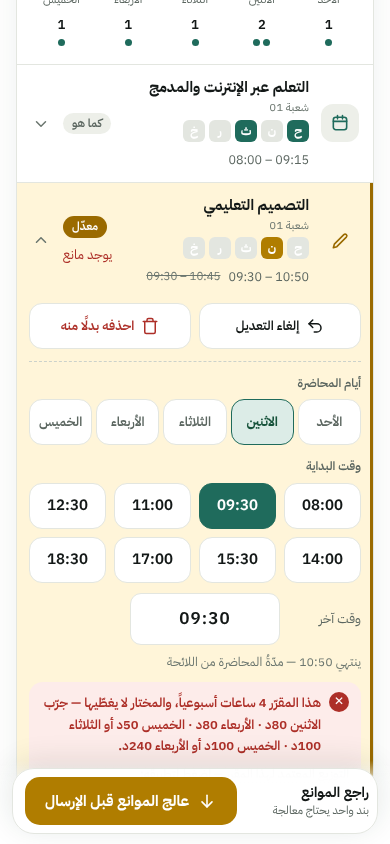
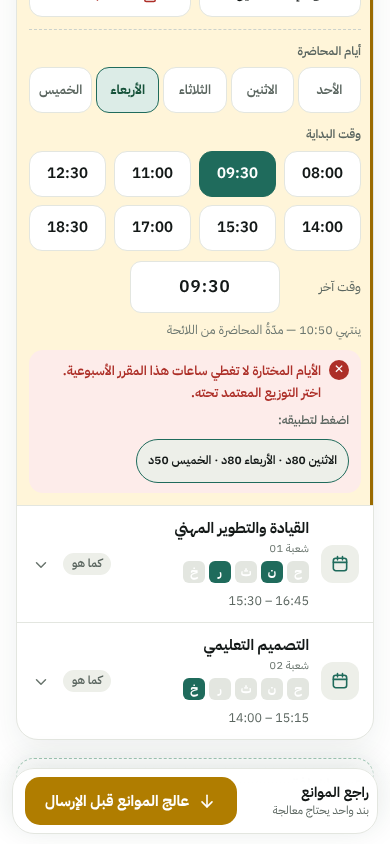
كرت الأستاذ: ثلاثة عيوب وجدتها المراجعة الأخيرة
- شاشة «وصل طلبك» كانت تختفي بعد لحظة: حفظ الإرسال يُطلق حدثاً في البث، وقراءةٌ بدأت أثناء الإرسال كانت ترسم الجدول فوقها ومعه رمز التوقيع. صار البث والقراءة يتوقفان أثناء الإرسال وبعده
- المانع «لا يغطّيها — جرّب ...» كان يعِد بتوزيعاتٍ لا تُختار من الصفحة فيُردّ الأستاذ ثانيةً. صار يدلّه على الزرّ الذي يمرّ، أو أن يُبقي موعده حين لا يوجد ما يُختار
- رمز التوقيع لا يتكرّر في شاشة «وصل طلبك»، ورابط التحقق هدف لمسٍ بارتفاع 44

Claude-Session: https://claude.ai/code/session_01AdKRVbcQ9dAGCBRHnaHCyL

diff --git a/server.ts b/server.ts
@@ -20393,7 +20393,7 @@ label.time input:focus,select:focus,textarea:focus,label.sign input:focus{outlin
 .cal-line{margin:10px 2px 14px;text-align:center}.cal-line p{margin:6px 6px 0;font-size:12px;color:var(--muted);line-height:1.7}
 .cal-btn{display:inline-flex;align-items:center;justify-content:center;gap:8px;min-height:44px;padding:9px 16px;border:1px solid var(--accent);border-radius:13px;background:var(--soft);color:var(--accent);font-weight:700;font-size:14px;text-decoration:none}.cal-btn .sk-gi{inline-size:18px;block-size:18px;flex:none}
 .cal-line.compact{margin:0 0 12px;text-align:start}.cal-line.compact p{margin:4px 2px 0}
-.verify-line{margin:14px 2px 0;font-size:13px;color:var(--muted);text-align:center}.verify-line a{color:var(--accent);font-weight:700}
+.verify-line{margin:14px 2px 0;font-size:13px;color:var(--muted);text-align:center}.verify-line a{display:inline-flex;align-items:center;min-height:44px;padding:0 8px;color:var(--accent);font-weight:700}
 .shape-lead{margin:0;font-size:12px;color:var(--muted)}.alts.shapes button{border-color:var(--accent);background:var(--soft);color:var(--ink);font-weight:600}
 .alts-ro span{padding:7px 11px;border-radius:999px;border:1px dashed var(--line);background:var(--soft,#f4f6f5);color:var(--ink,#1d2b24);font-size:12px}
 .days button,.starts button,.alts button,.reply button,.acts .act{min-height:44px}
@@ -20509,6 +20509,12 @@ var FRIENDLY=[
  [/^خارج المعتاد تاريخياً/,"هذا الوقت غير معتاد لهذا المقرر — يُقبل مع ذكر السبب."],
  [/^يتقاطع هذا الوقت مع مقرّرٍ يشترك فيه طلبتك/,"طلبتُك مسجّلون في مقررٍ آخر في هذا الوقت — اختر وقتاً آخر."]
 ];
+/* «هذا المقرّر 4 ساعات… جرّب الاثنين 80د · … أو الثلاثاء 100د…» صحيحةٌ للقسم، لكنها تَعِد الأستاذَ بتوزيعاتٍ
+   لا تُختار من هذه الصفحة (أطوالُ لقاءٍ يحدّدها القسم)، فيجرّبها فيُردّ ثانيةً. فتُقال له جملةٌ تدلّه على الزرّ
+   الذي يمرّ فعلاً، أو على أن يُبقي موعده حين لا يوجد ما يُختار من هنا. */
+function verdictText(it){var n=String(it&&it.note||"");
+ if(/لا يغطّيها/.test(n))return it.shapes&&it.shapes.length?"الأيام المختارة لا تغطي ساعات هذا المقرر الأسبوعية. اختر التوزيع المعتمد تحته.":"ساعات هذا المقرر تحتاج توزيعاً يحدّده القسم. أبقِ موعدك كما هو، أو اكتب للقسم ما تريده.";
+ return friendly(n)}
 function friendly(text){text=String(text||"");for(var k=0;k<FRIENDLY.length;k++){if(FRIENDLY[k][0].test(text))return FRIENDLY[k][1]}return text}
 function collegeNameOf(it){return it.action==="add"?(it.collegeName||(it.after&&it.after.collegeName)||""):((it.before&&it.before.collegeName)||"")}
 function manyColleges(){var seen={};state.forEach(function(it){var c=collegeNameOf(it);if(c)seen[c]=1});return Object.keys(seen).length>1}
@@ -20710,7 +20716,7 @@ function actionsHtml(it,i){
  return actBtn(i,"keep","undo","تراجع عن الحذف");
 }
 function editHtml(it,i){var h="";h+='<div class="edit"><span class="field-title">أيام المحاضرة</span><div class="days">';DAYS.forEach(function(d){h+='<button type="button" data-i="'+i+'" data-day="'+d[0]+'" aria-pressed="'+(it.days.indexOf(d[0])>=0)+'">'+d[1]+'</button>'});
-    h+='</div><span class="field-title">وقت البداية</span><div class="starts">'+startChoices(it.days).filter(function(t){return !it.blk||it.days.length!==1||mins(t)+it.blk<=20*60}).map(function(t){var own=it.start!==t&&ownClash(it,i,t);return '<button type="button" data-i="'+i+'" data-quick="'+t+'" aria-pressed="'+(it.start===t)+'"'+(own?' disabled title="عندك محاضرة في هذا الوقت" data-own-clash="1"':'')+'>'+t+'</button>'}).join("")+'</div><label class="time"><span>وقت آخر</span>'+SK.tf('data-i="'+i+'" data-start="1" aria-label="وقت آخر"',it.start)+'</label><p class="ends">'+(sameAsBefore(it)?"هذا هو موعدك الحالي نفسه — اختر يوماً أو وقتاً مختلفاً، أو اضغط «إلغاء التعديل».":it.days.length&&it.start?"ينتهي "+endOf(it.days,it.start,it.blk)+" — مدّةُ المحاضرة من اللائحة":"اختر اليوم ثم وقت البداية")+'</p><div class="verdict" data-i="'+i+'" data-tone="'+(it.tone||"")+'"><i aria-hidden="true">'+(it.tone==="ok"?"✓":it.tone==="bad"?"✕":it.tone==="warn"?"!":"…")+'</i><span>'+esc(friendly(it.note||""))+'</span>'+(it.shapes&&it.shapes.length?'<div class="shapes-box"><p class="shape-lead">التوزيع المعتمد لهذا المقرر — اضغط لتطبيقه:</p><div class="alts shapes">'+it.shapes.map(function(sh){return '<button type="button" data-i="'+i+'" data-shape="'+esc(sh.days.join(","))+'">'+esc(sh.label)+'</button>'}).join("")+'</div></div>':'')+(it.alts&&it.alts.length?'<div class="alts">'+it.alts.map(function(a){var ds=a.days&&a.days.length?a.days:[a.day];return '<button type="button" data-i="'+i+'" data-alt="'+esc(ds.join(",")+"|"+a.start)+'">'+fmtDays(ds)+" "+esc(a.start)+'</button>'}).join("")+'</div>':'')+'</div><textarea data-i="'+i+'" data-excuse="1" data-vi-field="ex-'+i+'" maxlength="'+${VOICE_INPUT_LIMIT}+'" data-show="'+(it.tone==="warn"?"1":"0")+'" placeholder="سبب الاستثناء — إلزامي">'+esc(it.excuse||"")+'</textarea>'+(it.tone==="warn"?VI.html("ex-"+i):"")+'</div>';return h}
+    h+='</div><span class="field-title">وقت البداية</span><div class="starts">'+startChoices(it.days).filter(function(t){return !it.blk||it.days.length!==1||mins(t)+it.blk<=20*60}).map(function(t){var own=it.start!==t&&ownClash(it,i,t);return '<button type="button" data-i="'+i+'" data-quick="'+t+'" aria-pressed="'+(it.start===t)+'"'+(own?' disabled title="عندك محاضرة في هذا الوقت" data-own-clash="1"':'')+'>'+t+'</button>'}).join("")+'</div><label class="time"><span>وقت آخر</span>'+SK.tf('data-i="'+i+'" data-start="1" aria-label="وقت آخر"',it.start)+'</label><p class="ends">'+(sameAsBefore(it)?"هذا هو موعدك الحالي نفسه — اختر يوماً أو وقتاً مختلفاً، أو اضغط «إلغاء التعديل».":it.days.length&&it.start?"ينتهي "+endOf(it.days,it.start,it.blk)+" — مدّةُ المحاضرة من اللائحة":"اختر اليوم ثم وقت البداية")+'</p><div class="verdict" data-i="'+i+'" data-tone="'+(it.tone||"")+'"><i aria-hidden="true">'+(it.tone==="ok"?"✓":it.tone==="bad"?"✕":it.tone==="warn"?"!":"…")+'</i><span>'+esc(verdictText(it))+'</span>'+(it.shapes&&it.shapes.length?'<div class="shapes-box"><p class="shape-lead">اضغط لتطبيقه:</p><div class="alts shapes">'+it.shapes.map(function(sh){return '<button type="button" data-i="'+i+'" data-shape="'+esc(sh.days.join(","))+'">'+esc(sh.label)+'</button>'}).join("")+'</div></div>':'')+(it.alts&&it.alts.length?'<div class="alts">'+it.alts.map(function(a){var ds=a.days&&a.days.length?a.days:[a.day];return '<button type="button" data-i="'+i+'" data-alt="'+esc(ds.join(",")+"|"+a.start)+'">'+fmtDays(ds)+" "+esc(a.start)+'</button>'}).join("")+'</div>':'')+'</div><textarea data-i="'+i+'" data-excuse="1" data-vi-field="ex-'+i+'" maxlength="'+${VOICE_INPUT_LIMIT}+'" data-show="'+(it.tone==="warn"?"1":"0")+'" placeholder="سبب الاستثناء — إلزامي">'+esc(it.excuse||"")+'</textarea>'+(it.tone==="warn"?VI.html("ex-"+i):"")+'</div>';return h}
 function bodyHtml(it,i,open){var h=decisionBox(it,i,open)+threadBox(it,i);
  if(open){if(it.negotiation==="proposed")h+='<p class="hint-pro">للرد على اقتراح القسم استخدم بطاقة «قرارك» في أعلى الصفحة. وتعديل الموعد من هنا يبدأ طلبًا جديدًا.</p>';h+='<div class="acts" role="group" aria-label="خيارات الموعد">'+actionsHtml(it,i)+'</div>';if(it.action==="change"||it.action==="add")h+=editHtml(it,i)}
  else if(!h)h='<p class="appt-ro">انتهت مدّة الطلبات — هذا الموعد للاطلاع.</p>';
@@ -20837,8 +20843,10 @@ function calendarHtml(compact){if(!data||!data.calendarFeed)return "";
   '<p>يتحدّث تلقائياً عند أي تثبيتٍ جديد من القسم، ولا يحمل إلا ما ثُبّت في جدولك الرسمي.</p></div>'}
 function anyFixed(){return state.some(function(it){return it.decision&&it.decision.state==="fixed"})||(data&&data.request&&data.request.status==="settled")}
 /* رمزُ التوقيع له مكانٌ يُطابَق فيه: يُعرض مع رابطٍ يفتح التحقّق جاهزاً بالرمز. */
-function verifyHtml(code){if(!code)return "";
- return '<p class="verify-line">رمز توقيعك <b class="code num">'+esc(code)+'</b> · <a href="/verify/'+encodeURIComponent(code)+'?t='+encodeURIComponent(TOKEN)+'">تحقّق من رمزك</a></p>'}
+function verifyHtml(code,linkOnly){if(!code)return "";
+ var link='<a href="/verify/'+encodeURIComponent(code)+'?t='+encodeURIComponent(TOKEN)+'">'+(linkOnly?'تحقّق من توقيعك لاحقاً':'تحقّق من رمزك')+'</a>';
+ /* في شاشة «وصل طلبك» الرمزُ مكتوبٌ فوقه، فلا يُكرَّر: الرابطُ وحده. */
+ return '<p class="verify-line">'+(linkOnly?link:'رمز توقيعك <b class="code num">'+esc(code)+'</b> · '+link)+'</p>'}
 /* المسودةُ تُحفظ في الجهاز نفسه: أستاذٌ أغلق الصفحة خطأً أو انقطع اتصاله
    يعود فيجد ما كتبه. ولا يُحفظ الرقمُ المدني أبداً. */
 var openCards={};
@@ -21004,26 +21012,33 @@ function submit(){
 }
 /* الإرسالُ نفسُه كما كان: الخادمُ يعيد الحكمَ ويتحقق من التوقيع، والصفحةُ تعرض ما يقوله. */
 function postSubmit(civil,done){
+ /* أثناء الإرسال لا تُقرأ الصفحة من جديد: حفظُ الإرسال نفسه يُطلق حدثاً في البثّ، وقراءتُه في منتصف الطريق
+    كانت تقول «وصل ردّ من القسم» عن إرسال الأستاذ نفسه، أو ترسم الجدولَ فوق شاشة «وصل طلبك». */
+ sendingNow=true;
  fetch("/api/public/request/"+encodeURIComponent(TOKEN),{method:"POST",
   headers:{"Content-Type":"application/json"},
   body:JSON.stringify({civil:civil,items:payloadItems()})})
  .then(function(r){return r.json().then(function(d){return{ok:r.ok,status:r.status,d:d}})})
  .then(function(x){
   if(!x.ok){
+   sendingNow=false;
    if(typeof x.d.itemIndex==="number"&&state[x.d.itemIndex]){var bad=state[x.d.itemIndex];if(bad.action!=="delete"&&bad.action!=="keep"){bad.tone="bad";bad.note=x.d.error||bad.note}closeSheet();focusItem(x.d.itemIndex,x.d.error||"تعذّر الإرسال");return}
    done(x.d.error||"تعذّر الإرسال",x.status);return}
   dirty=false;clearDraft();
+  /* شاشةُ «وصل طلبك» تبقى حتى يضغط «افتح جدولك»: حفظُ الإرسال نفسِه يُطلق حدثاً في البثّ،
+     وكانت إعادةُ القراءة التي يطلقها ترسم الجدولَ فوقها فتختفي بعد لحظة ومعها رمزُ التوقيع. */
+  liveOff=true;closeLive();
   var code=x.d.request&&x.d.request.signature&&x.d.request.signature.verifyCode||"";
   done();
   host.innerHTML='<div class="done"><div class="tick">'+gi("check")+'</div><h1>وصل طلبك إلى القسم</h1><div class="done-path">'+pathHtml(pendingList().length?2:1)+'</div>'+
    '<p class="sub">'+esc(countOf(x.d.changed,AR.edit,"بلا تعديلات"))+
    ' · يمكنك فتح الرابط نفسه لمتابعة ما ثُبّت وما رُفض.</p>'+
    /* رمزُ التوقيع يُعطى لصاحبه: هو ما يُطابَق به طلبُه بعد شهرين. */
-   (code?'<p class="sub">رمز توقيعك: <b class="code num">'+esc(code)+'</b></p>'+verifyHtml(code):'')+
+   (code?'<p class="sub">رمز توقيعك: <b class="code num">'+esc(code)+'</b></p>'+verifyHtml(code,true):'')+
    calendarHtml(false)+'<button type="button" class="btn-main" id="again">'+gi("eye")+'افتح جدولك</button></div>';
   var again=document.getElementById("again");if(again)again.onclick=function(){location.reload()};
   window.scrollTo(0,0)})
- .catch(function(){done("تعذّر الاتصال. تحقّق من الإنترنت.")});
+ .catch(function(){sendingNow=false;done("تعذّر الاتصال. تحقّق من الإنترنت.")});
 }
 
 function mapItems(d){return (d.request.items||[]).map(function(it){var a=it.after||{};return{rowId:it.rowId,action:it.action||"keep",
@@ -21042,10 +21057,12 @@ function rankState(){state.map(function(it,i){return{it:it,i:i}}).sort(function(
    مسودةٌ لم تُرسَل لا يُستبدل أبداً: يُقال له إن عند القسم جديداً ويقرّر هو. */
 var lastFetch=Date.now(),refreshing=false,freshNote=false;
 function refresh(){
- if(refreshing||!data)return;
+ if(liveOff||sendingNow||refreshing||!data)return;
  refreshing=true;
  fetch("/api/public/request/"+encodeURIComponent(TOKEN)+"?live=1",{cache:"no-store"}).then(function(r){return r.json().then(function(d){return{ok:r.ok,d:d}})}).then(function(x){
-  refreshing=false;lastFetch=Date.now();if(!x.ok)return;
+  refreshing=false;lastFetch=Date.now();
+  /* قراءةٌ بدأت قبل الإرسال وعادت بعده لا تُطبَّق: شاشةُ «وصل طلبك» هي الحاضرة الآن. */
+  if(liveOff||sendingNow||!x.ok)return;
   if(JSON.stringify(data.request)===JSON.stringify(x.d.request)&&data.windowOpen===x.d.windowOpen)return;
   /* مسودةٌ لم تُرسل لا تُستبدل أبداً. لكنّ الجديد يُقرأ ويُقال له، سواءٌ وصله بالبثّ أو بالقراءة الدورية:
      بثٌّ لا يبلغ نسخةً أخرى من الخادم ولا يُستعمل في متصفحٍ بلا EventSource، فتبقى القراءةُ هي الطريق. */
@@ -21061,9 +21078,9 @@ function onDecisionArrived(newDecision){try{if(navigator.vibrate)navigator.vibra
    اتصالٌ واحدٌ يُفتح والصفحةُ ظاهرة ويُغلق إذا أُخفيت، ويتراجع أُسّياً إن فشل.
    وهو لا يحمل بيانات: يقول «تغيّر شيء»، والصفحةُ تقرأ بالمسار العادي. ومعه نبضٌ
    بطيءٌ كل دقيقتين لمن لا يبلغه البثّ (نسخةٌ أخرى من الخادم، أو شبكةٌ تقطع). */
-var live=null,liveBack=2000,liveTimer=null,liveReady=false;
+var live=null,liveBack=2000,liveTimer=null,liveReady=false,liveOff=false,sendingNow=false;
 function closeLive(){if(live){live.close();live=null}clearTimeout(liveTimer);liveReady=false}
-function openLive(){if(live||!window.EventSource||document.visibilityState==="hidden"||!data)return;
+function openLive(){if(liveOff||live||!window.EventSource||document.visibilityState==="hidden"||!data)return;
  live=new EventSource("/api/public/request/"+encodeURIComponent(TOKEN)+"/events");
  live.addEventListener("ready",function(){liveBack=2000;if(liveReady)refresh();liveReady=true});
  live.addEventListener("changed",function(){refresh()});

diff --git a/tests/teacher-card-polish-audit.ts b/tests/teacher-card-polish-audit.ts
@@ -73,6 +73,31 @@ check(/\?live=1/.test(page) && /String\(req\.query\.live \|\| ""\) === "1"/.test
 check(/<link rel="icon" href="\/schedule-icon\.svg"/.test(page), "الصفحة تحمل أيقونتها فلا يطلب المتصفحُ favicon.ico ويعود 404");
 check(/data-shape=/.test(page) && /\[data-shape\]/.test(page), "أزرار التوزيع المعتمد تُطبَّق بضغطة");
 
+/* ── نصُّ المانع بما تقدر عليه الصفحة (سلوكٌ بمحرّك V8) ──────────────────── */
+const vStart = page.indexOf("function verdictText(it){");
+const vEnd = page.indexOf("function friendly(text){", vStart);
+const vBox: any = { friendly: (t: string) => "FRIENDLY:" + t };
+let vOk = vStart > 0 && vEnd > vStart;
+try { vm.runInNewContext(page.slice(vStart, vEnd).replace(/\\\\/g, "\\") + "\nthis.verdictText=verdictText;", vBox, { timeout: 1000 }); } catch (e) { vOk = false; console.log(e); }
+check(vOk && typeof vBox.verdictText === "function", "دالّةُ نصّ الحكم تُجمَّع وحدها");
+if (vBox.verdictText) {
+  const longText = "هذا المقرّر 4 ساعات أسبوعياً، والمختار لا يغطّيها — جرّب الاثنين 80د · الأربعاء 80د · الخميس 50د أو الثلاثاء 100د · الخميس 100د.";
+  const withShapes = vBox.verdictText({ note: longText, shapes: [{ days: ["fmonday"], label: "x" }] });
+  check(!/الثلاثاء 100د|جرّب/.test(withShapes) && /اختر التوزيع المعتمد/.test(withShapes), "المانعُ لا يعِد بتوزيعٍ لا يُختار من الصفحة: يدلّ على الزرّ الذي يمرّ");
+  const noShapes = vBox.verdictText({ note: longText, shapes: [] });
+  check(/يحدّده القسم/.test(noShapes) && /أبقِ موعدك/.test(noShapes) && !/جرّب/.test(noShapes), "وحين لا يوجد ما يُختار من هنا يُقال له أن يُبقي موعده أو يكتب للقسم");
+  check(vBox.verdictText({ note: "تتابع مرتفع على الأستاذ (2)" }) === "FRIENDLY:تتابع مرتفع على الأستاذ (2)", "وبقيةُ الرسائل تمرّ بمترجم اللغة نفسه");
+}
+check(/<span>'\+esc\(verdictText\(it\)\)\+'<\/span>/.test(page), "مربّعُ الحكم يعرض النصّ المترجَم");
+
+/* ── شاشةُ «وصل طلبك» لا يمحوها البثّ ────────────────────────────────────── */
+check(/dirty=false;clearDraft\(\);[\s\S]{0,300}liveOff=true;closeLive\(\);/.test(page), "بعد الإرسال يُوقَف البثّ وإعادةُ القراءة فتبقى شاشة «وصل طلبك» ورمزُ التوقيع");
+check(/function refresh\(\)\{\s*if\(liveOff\|\|sendingNow\|\|/.test(page) && /function openLive\(\)\{if\(liveOff\|\|/.test(page), "وإعادةُ القراءة وفتحُ البثّ يحترمان ذلك");
+check(/if\(liveOff\|\|sendingNow\|\|!x\.ok\)return;/.test(page), "وقراءةٌ بدأت قبل الإرسال وعادت بعده لا تُطبَّق فوق شاشة «وصل طلبك»");
+check(/function postSubmit\(civil,done\)\{[\s\S]{0,400}sendingNow=true;/.test(page) && (page.match(/sendingNow=false;/g) || []).length >= 2, "وأثناء الإرسال لا تُقرأ الصفحة، ويُرفع القيد إن فشل الإرسال");
+check(/\.verify-line a\{display:inline-flex;align-items:center;min-height:44px/.test(page), "ورابطُ «تحقّق من رمزك» هدفُ لمسٍ بارتفاع 44");
+check(/verifyHtml\(code,true\)/.test(page) && /linkOnly\?link:/.test(page), "وفي شاشة «وصل طلبك» لا يتكرّر رمزُ التوقيع: الرابطُ وحده تحت الرمز");
+
 /* ── المرحلة ٢: البثّ الحيّ (عقودُ الصفحة) ─────────────────────────────── */
 check(/new EventSource\("\/api\/public\/request\/"\+encodeURIComponent\(TOKEN\)\+"\/events"\)/.test(page), "الصفحة تفتح بثّها بالرابط الشخصيّ نفسه");
 check(/else closeLive\(\)/.test(page) && /document\.visibilityState==="hidden"/.test(page), "ويُغلق البثّ حين تُخفى الصفحة ويُعاد فتحه عند العودة");
